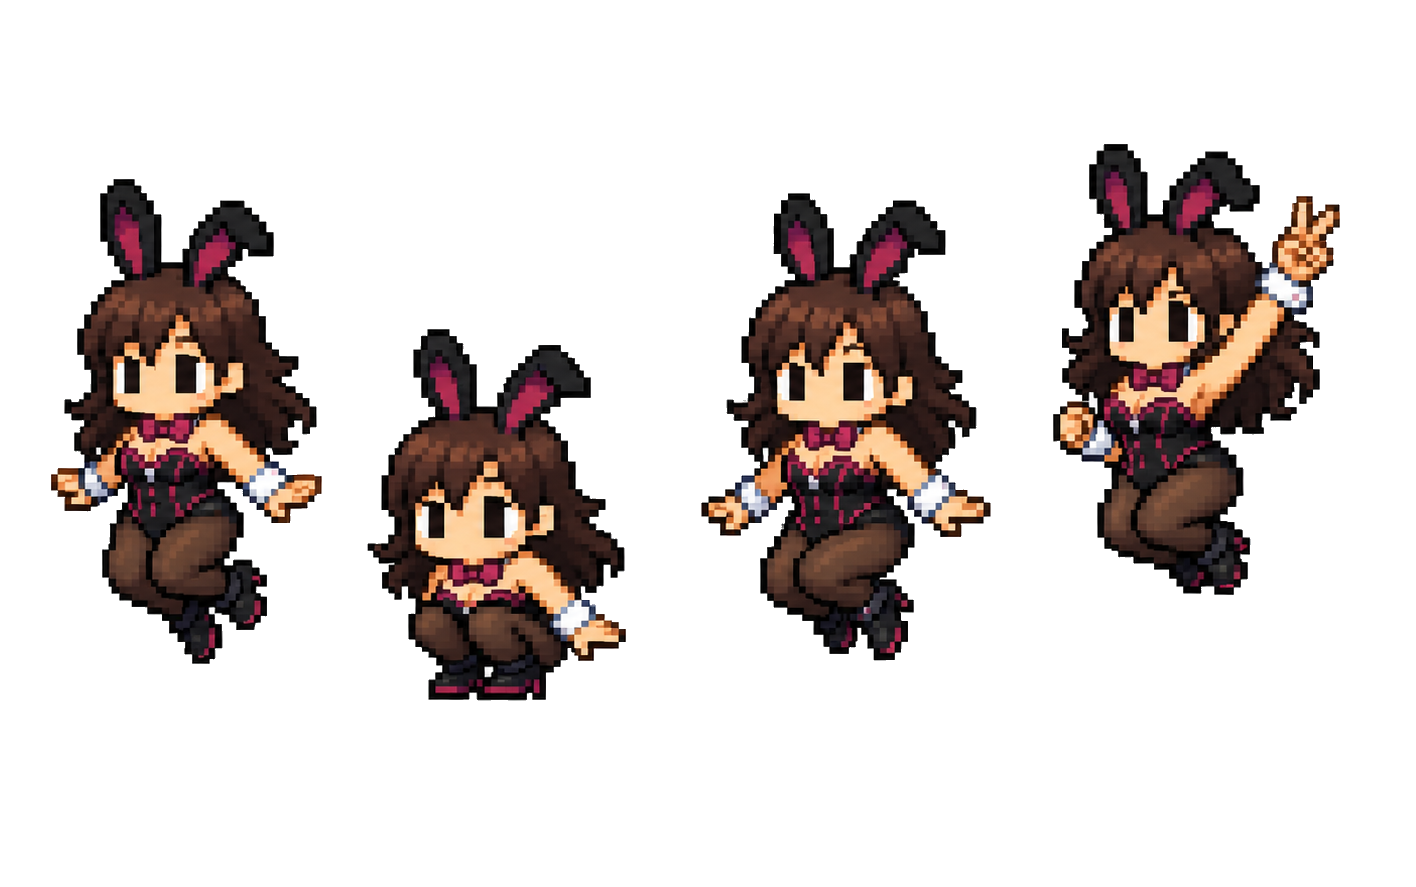
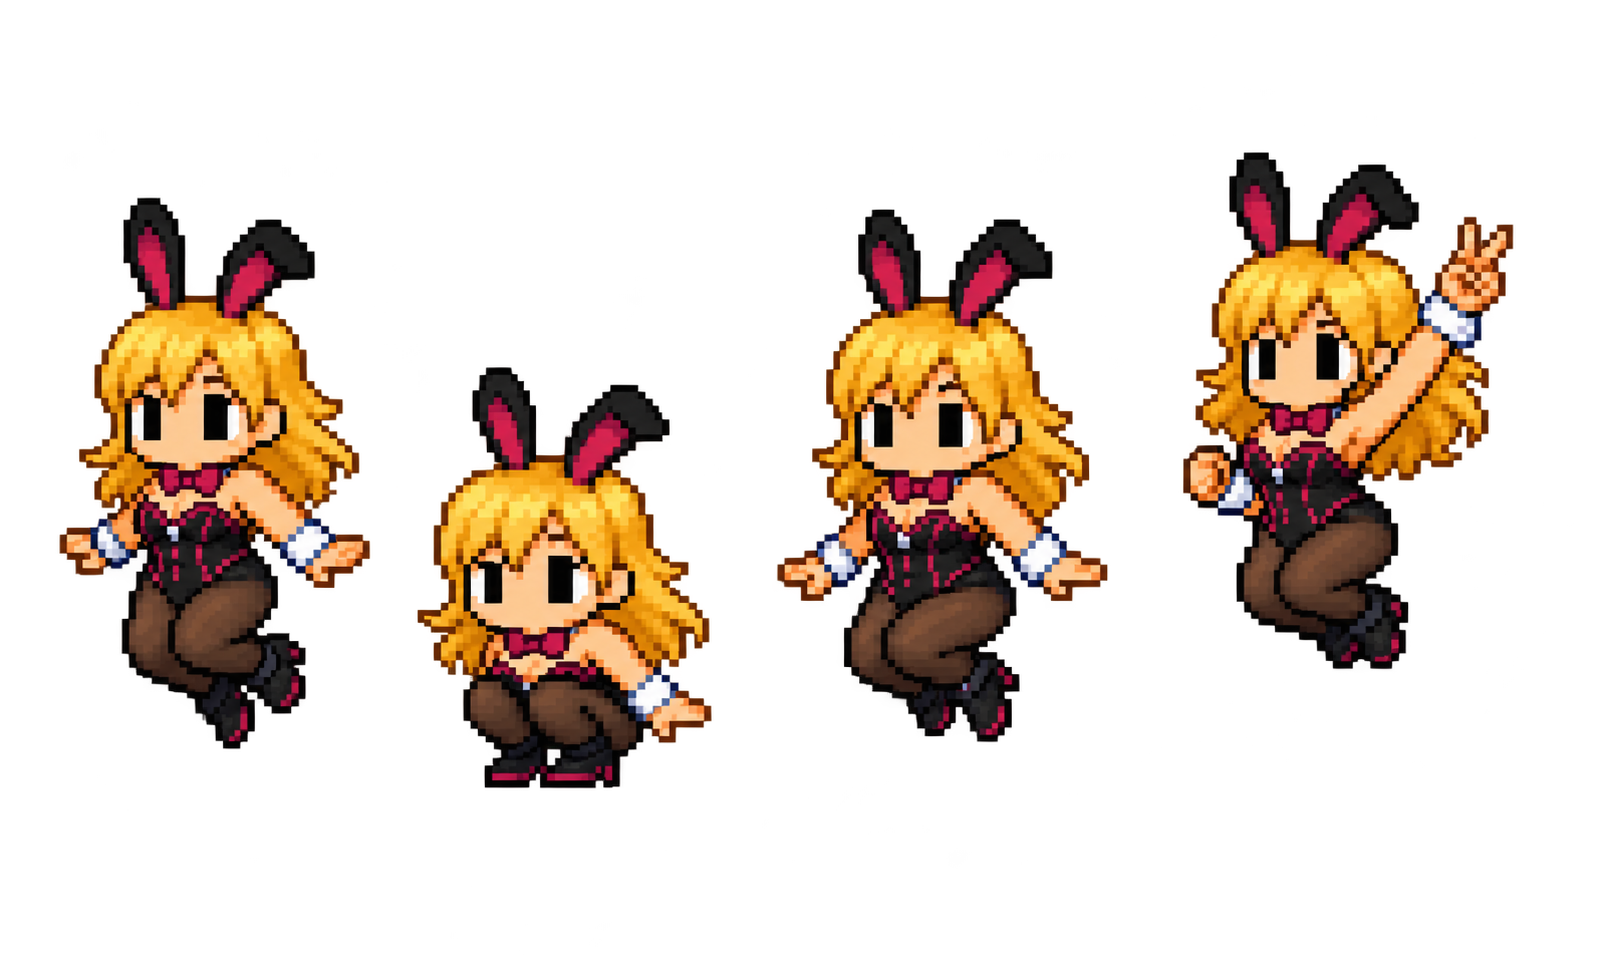
feat: replace grandma with ninja and add blonde bunny

Changed region(s): [[0.4661, 0.1522, 0.9633, 0.761], [0.0311, 0.1826, 0.4661, 0.8219]]

diff --git a/assets/characters/README.md b/assets/characters/README.md
@@ -33,7 +33,9 @@
 
 ## 표준 제작 파이프라인
 
-새 캐릭터는 먼저 가로 5칸짜리 원본 시트 한 장으로 만듭니다.
+새 캐릭터는 먼저 가로 5칸짜리 원본 시트 한 장으로 만듭니다. 기본 캐릭터와
+같이 원본 단계에서 배경을 완전한 투명(`RGBA alpha=0`)으로 만들어야 합니다.
+흰색·회색 배경을 나중에 자동으로 지우는 방식은 사용하지 않습니다.
 
 1. 대기 자세
 2. 점프 시작 자세
@@ -41,7 +43,9 @@
 4. 상승 자세
 5. 공중 고유 포즈
 
-모든 칸은 같은 폭이어야 하고 캐릭터가 서로 닿지 않아야 합니다. 배경은 투명을 권장하지만, 이미지 생성기가 밝은 체크무늬를 실제 픽셀로 만든 경우에도 가져오기 도구가 외곽과 연결된 체크무늬를 제거합니다.
+모든 칸은 같은 폭이어야 하고 캐릭터가 서로 닿지 않아야 합니다. 배경은 반드시
+투명이어야 하며, 생성 결과에 배경색이 남아 있으면 먼저 이미지 편집기에서
+배경을 제거한 뒤 가져옵니다.
 
 ```powershell
 ./tools/import-character-sheet.ps1 `
@@ -56,7 +60,7 @@
 도구가 자동으로 수행하는 작업:
 
 - 캐릭터 ID 형식 검사
-- 외곽 투명 배경 또는 밝은 체크무늬 정리
+- 투명 알파 채널 유지 여부 검증
 - 첫 번째 칸을 `idle.png`로 분리
 - 나머지 네 칸을 `jump_sheet.png`로 결합
 - `character.json` 생성
@@ -75,3 +79,12 @@
 - 캐릭터별로 실루엣이 확실히 다른 공중 포즈 설계
 - 글자, 칸 구분선, 바닥, 그림자, 워터마크 금지
 - 실제 투명 배경과 캐릭터 사이의 충분한 여백 확보
+
+### 줄넘킹 고정 스타일 규격
+
+- 기준 스타일은 `default`, `schoolgirl_ponytail`, `schoolgirl_bob`와 동일한 치비 도트 스타일입니다.
+- 큰 사각 눈, 짧은 팔다리, 한 칸 단위의 굵은 짙은 윤곽선, 제한된 색상 수를 유지합니다.
+- 선을 부드럽게 그리거나 고해상도 일러스트처럼 만들지 않습니다. 최종 표시도 nearest 픽셀 필터를 사용합니다.
+- 점프 시트는 정확히 4프레임 가로 배열이며, 현재 기준 시트 폭은 2172px(프레임당 543px), 높이는 724px입니다.
+- idle은 전신 기준선과 픽셀 밀도를 기준 캐릭터에 맞추며, 생성 후 임의로 늘리거나 찌그러뜨리지 않습니다.
+- 새 캐릭터는 반드시 이 규격으로 만든 투명 PNG를 먼저 확정한 뒤 게임에 추가합니다.
